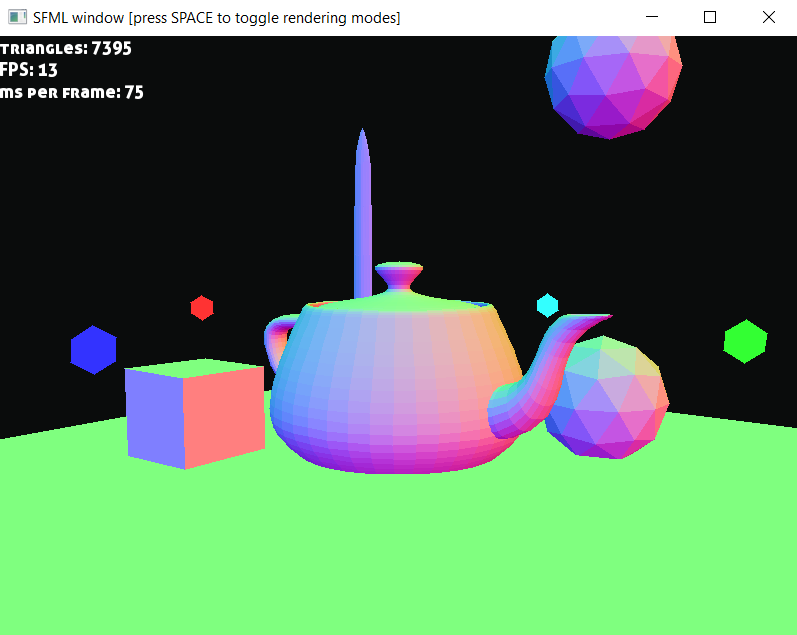
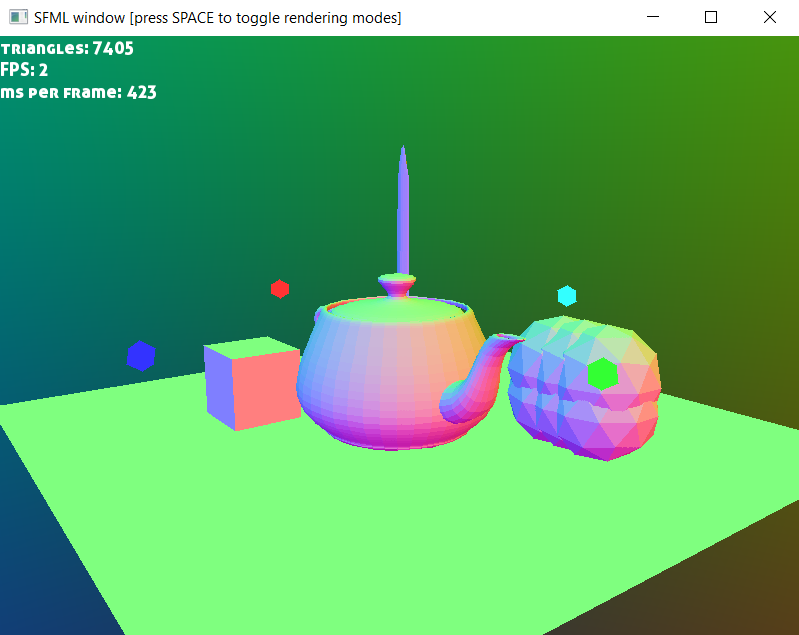
Skybox demo

diff --git a/3dRendererFromScratch/3dRendererFromScratch/Application.cpp b/3dRendererFromScratch/3dRendererFromScratch/Application.cpp
@@ -36,7 +36,7 @@ void Application::initShaders() {
     flatShader.setConst({glm::vec3(1.0f)});
 
     flatShader.setShader([](const eng::ShaderConstantsVec& consts, const eng::ShaderVariablesVec& var,
-                         const eng::LightsVec& lights) -> glm::vec4 { return glm::vec4(consts[0].get<glm::vec3>(), 1.0f); });
+                            const eng::LightsVec& lights) -> glm::vec4 { return glm::vec4(consts[0].get<glm::vec3>(), 1.0f); });
 
     textureShader.setConst({&texture});
 
@@ -61,7 +61,7 @@ void Application::initShaders() {
     phongShader.setConst({&texture, glm::vec3(), glm::vec3()});
 
     phongShader.setShader([](const eng::ShaderConstantsVec& consts, const eng::ShaderVariablesVec& var,
-                         const eng::LightsVec& lights) -> glm::vec4 {
+                             const eng::LightsVec& lights) -> glm::vec4 {
         auto FragPos = var[0].get<glm::vec3>();
         auto uv = var[1].get<glm::vec2>();
 
@@ -97,6 +97,14 @@ void Application::initShaders() {
 
         return glm::vec4(lighting, color.a);
     });
+
+    skyboxShader.setConst({&skybox});
+    skyboxShader.setShader(
+        [](const eng::ShaderConstantsVec& consts, const eng::ShaderVariablesVec& var, const eng::LightsVec& lights) -> glm::vec4 {
+            auto cubemap = consts[0].get<eng::CubemapTexture*>();
+            auto pos = var[0].get<glm::vec3>();
+            return cubemap->sample(pos);
+        });
 }
 
 void Application::addObjects() {
@@ -110,6 +118,9 @@ void Application::addObjects() {
         lights.push_back(eng::PointLight({0, 0.1, -2}, {0.2, 1.0, 1.0}, 1.2f, 0.5f));
     }
 
+    auto skyboxMesh = eng::MeshData::generateCubeData(1.0f, true);
+    objects.emplace_back(std::make_unique<eng::Skybox>(skyboxMesh, skyboxShader, eng::RenderMode::Texture));
+
     // plane
     float s = 2.6f;
     float h = -0.8;
@@ -117,57 +128,39 @@ void Application::addObjects() {
     objects.emplace_back(std::make_unique<eng::Mesh>(eng::MeshData{{{-s, h, s}, {-s, h, -s}, {s, h, s}, {s, h, -s}},
                                                                    {{0, 0}, {0, 1}, {1, 1}, {1, 0}},
                                                                    {{0, 1, 2, 0, 3, 1}, {3, 2, 1, 2, 1, 3}}},
-                                                     &texture, eng::ColorType(1.0f), phongShader, flatShader, textureShader, uvShader,
-                                                     normalShader));
+                                                     &texture, eng::ColorType(1.0f), phongShader, flatShader, textureShader,
+                                                     uvShader, normalShader));
 
     // cube
     float sz = 0.3f;
-    objects.emplace_back(std::make_unique<eng::Mesh>(eng::MeshData{{{-sz, -sz, -sz},
-                                                                    {-sz, -sz, sz},
-                                                                    {-sz, sz, -sz},
-                                                                    {-sz, sz, sz},
-                                                                    {sz, -sz, -sz},
-                                                                    {sz, -sz, sz},
-                                                                    {sz, sz, -sz},
-                                                                    {sz, sz, sz}},
-                                                                   {{0, 0}, {0, 1}, {1, 1}, {1, 0}},
-                                                                   {{1, 3, 7, 0, 1, 2},
-                                                                    {1, 7, 5, 0, 2, 3},
-                                                                    {5, 7, 6, 0, 1, 2},
-                                                                    {5, 6, 4, 0, 2, 3},
-                                                                    {4, 6, 2, 0, 1, 2},
-                                                                    {4, 2, 0, 0, 2, 3},
-                                                                    {0, 2, 3, 0, 1, 2},
-                                                                    {0, 3, 1, 0, 2, 3},
-                                                                    {3, 2, 6, 0, 1, 2},
-                                                                    {3, 6, 7, 0, 2, 3},
-                                                                    {0, 1, 5, 0, 1, 2},
-                                                                    {0, 5, 4, 0, 2, 3}}},
-                                                     &texture, eng::ColorType(1.0f), phongShader, flatShader, textureShader, uvShader,
-                                                     normalShader));
+    auto cubeMesh = eng::MeshData::generateCubeData(sz);
+    objects.emplace_back(std::make_unique<eng::Mesh>(cubeMesh, &texture, eng::ColorType(1.0f), phongShader, flatShader,
+                                                     textureShader, uvShader, normalShader));
     objects.back()->getTransform().position = glm::vec3(-1.0f, h + sz, 0.8f);
 
     // teapot
     objects.emplace_back(std::make_unique<eng::Mesh>(eng::loadFromObj("data/teapot.obj", 0.4f, true, false), &texture3,
-                                                     eng::ColorType(1.0f), phongShader, flatShader, textureShader, uvShader, normalShader));
+                                                     eng::ColorType(1.0f), phongShader, flatShader, textureShader, uvShader,
+                                                     normalShader));
     objects.back()->getTransform().position.y = h;
 
     // sphere
     for (int y = 0; y < 2; ++y)
         for (int x = 0; x < 3; ++x) {
             objects.emplace_back(std::make_unique<eng::Mesh>(eng::loadFromObj("data/lowPolySphere.obj", 0.4f, true), &texture2,
-                                                             eng::ColorType(1.0f), phongShader, flatShader, textureShader, uvShader,
-                                                             normalShader));
+                                                             eng::ColorType(1.0f), phongShader, flatShader, textureShader,
+                                                             uvShader, normalShader));
             objects.back()->getTransform().position = glm::vec3(1.0f + 0.2f * x, h + 0.4f + 0.2f * y, -0.8f);
         }
 
     // sword
     objects.emplace_back(std::make_unique<eng::Mesh>(eng::loadFromObj("data/sword.obj", 2.0f, true), &swordTexture,
-                                                     eng::ColorType(1.0f), phongShader, flatShader, textureShader, uvShader, normalShader));
+                                                     eng::ColorType(1.0f), phongShader, flatShader, textureShader, uvShader,
+                                                     normalShader));
     objects.back()->getTransform().position = glm::vec3(-1.0f, h, -0.8f);
 
-    eng::Mesh light(eng::loadFromObj("data/light.obj", 0.1f, true, false), &texture, eng::ColorType(1.0f), phongShader, flatShader,
-                    textureShader, uvShader, normalShader, eng::RenderMode::FlatColor);
+    eng::Mesh light(eng::loadFromObj("data/light.obj", 0.1f, true, false), &texture, eng::ColorType(1.0f), phongShader,
+                    flatShader, textureShader, uvShader, normalShader, eng::RenderMode::FlatColor);
 
     for (int y = 0; y < lights.size(); ++y) {
         glm::vec3 pos = lights[y].pos;

diff --git a/3dRendererFromScratch/3dRendererFromScratch/Engine/Object.cpp b/3dRendererFromScratch/3dRendererFromScratch/Engine/Object.cpp
@@ -4,6 +4,9 @@ namespace eng {
 
 Transform& Object::getTransform() { return t; }
 
+glm::vec3 Object::getPosition() const { return t.position; }
+void Object::setPosition(glm::vec3 pos) { t.position = pos; }
+
 MeshData loadFromObj(const std::string& filename, float scale, bool invertNormals, bool uvCoords) {
     std::ifstream file(filename);
     assert(file);
@@ -51,6 +54,35 @@ MeshData loadFromObj(const std::string& filename, float scale, bool invertNormal
     }
 
     return mesh;
+}
+
+MeshData MeshData::generateCubeData(float sz, bool invertNormals) {
+    auto res = MeshData{{{-sz, -sz, -sz},
+                         {-sz, -sz, sz},
+                         {-sz, sz, -sz},
+                         {-sz, sz, sz},
+                         {sz, -sz, -sz},
+                         {sz, -sz, sz},
+                         {sz, sz, -sz},
+                         {sz, sz, sz}},
+                        {{0, 0}, {0, 1}, {1, 1}, {1, 0}},
+                        {{1, 3, 7, 0, 1, 2},
+                         {1, 7, 5, 0, 2, 3},
+                         {5, 7, 6, 0, 1, 2},
+                         {5, 6, 4, 0, 2, 3},
+                         {4, 6, 2, 0, 1, 2},
+                         {4, 2, 0, 0, 2, 3},
+                         {0, 2, 3, 0, 1, 2},
+                         {0, 3, 1, 0, 2, 3},
+                         {3, 2, 6, 0, 1, 2},
+                         {3, 6, 7, 0, 2, 3},
+                         {0, 1, 5, 0, 1, 2},
+                         {0, 5, 4, 0, 2, 3}}};
+
+    if (invertNormals)
+        for (auto& face : res.faces) std::swap(face.i, face.j);
+
+    return res;
 }
 
 Mesh::Mesh(const MeshData& mesh, Texture* texture, ColorType color, Shader& ph, Shader& fl, Shader& td, Shader& uv, Shader& nrm,
@@ -130,7 +162,59 @@ size_t Mesh::getTriangleCount() { return mesh.faces.size(); }
 ColorType Mesh::getColor() const { return color; }
 void Mesh::setColor(ColorType clr) { color = clr; }
 
-glm::vec3 Mesh::getPosition() const { return t.position; }
-void Mesh::setPosition(glm::vec3 pos) { t.position = pos; }
+Skybox::Skybox(const MeshData& mesh, Shader& shader, std::optional<RenderMode> rm) : mesh(mesh), shader(shader), rm(rm) {}
+
+void Skybox::draw(RenderMode r, const Camera& camera, Screen& screen, const LightsVec& lights) {
+    // remove translation
+    glm::mat4 model = glm::mat4(glm::mat3(t.getModel()));
+
+    glm::mat4 transform = glm::mat4(glm::mat3(camera.getViewMatrix()));
+    glm::mat4 projection = screen.getProjectionMatrix();
+    float near = screen.near;
+
+    if (rm.has_value()) r = *rm;
+
+    for (auto& face : mesh.faces) {
+        glm::vec4 v0 = glm::vec4(mesh.vertices[face.i], 1.0f);
+        glm::vec4 v1 = glm::vec4(mesh.vertices[face.j], 1.0f);
+        glm::vec4 v2 = glm::vec4(mesh.vertices[face.k], 1.0f);
+
+        glm::vec4 p0_ = model * v0;
+        glm::vec4 p1_ = model * v1;
+        glm::vec4 p2_ = model * v2;
+        p0_ /= p0_.w;
+        p1_ /= p1_.w;
+        p2_ /= p2_.w;
+        glm::vec3 p0 = glm::vec3(p0_);
+        glm::vec3 p1 = glm::vec3(p1_);
+        glm::vec3 p2 = glm::vec3(p2_);
+
+        Triangle tr;
+        p0_ = transform * model * v0;
+        p1_ = transform * model * v1;
+        p2_ = transform * model * v2;
+        tr.p0 = glm::vec4(p0_.x / p0_.w, p0_.y / p0_.w, p0_.z / p0_.w, p0_.w);
+        tr.p1 = glm::vec4(p1_.x / p1_.w, p1_.y / p1_.w, p1_.z / p1_.w, p1_.w);
+        tr.p2 = glm::vec4(p2_.x / p2_.w, p2_.y / p2_.w, p2_.z / p2_.w, p2_.w);
+
+        if (r != RenderMode::Wireframe) {
+            tr.v0 = ShaderVariablesVec({p0});
+            tr.v1 = ShaderVariablesVec({p1});
+            tr.v2 = ShaderVariablesVec({p2});
+
+            screen.setDepth = false;
+
+            drawTriangle(tr, projection, near, shader, screen, lights);
+
+            screen.setDepth = true;
+        } else {
+            drawWireframeTriangle(tr, projection, near, glm::vec3(1.0f), screen);
+        }
+    }
+}
+
+void Skybox::update(float dt) {}
+
+size_t Skybox::getTriangleCount() { return mesh.faces.size(); }
 
 }  // namespace eng

diff --git a/3dRendererFromScratch/3dRendererFromScratch/Engine/Object.h b/3dRendererFromScratch/3dRendererFromScratch/Engine/Object.h
@@ -30,6 +30,9 @@ class Object {
 
     Transform& getTransform();
 
+    void setPosition(glm::vec3 pos);
+    glm::vec3 getPosition() const;
+
  protected:
     Transform t;
 };
@@ -48,6 +51,8 @@ struct MeshData {
     std::vector<glm::vec3> vertices;
     std::vector<glm::vec2> textureCoords;
     std::vector<Face> faces;
+
+    static MeshData generateCubeData(float sz = 1.0f, bool invertNormals = false);
 };
 
 MeshData loadFromObj(const std::string& filename, float scale = 1.0f, bool invertNormals = false, bool uvCoords = true);
@@ -64,9 +69,6 @@ class Mesh : public Object {
     void setColor(ColorType clr);
     ColorType getColor() const;
 
-    void setPosition(glm::vec3 pos);
-    glm::vec3 getPosition() const;
-
  private:
     MeshData mesh;
     ColorType color;
@@ -78,6 +80,21 @@ class Mesh : public Object {
     Shader& td;
     Shader& uv;
     Shader& nrm;
+};
+
+class Skybox : public Object {
+ public:
+    Skybox(const MeshData& mesh, Shader& shader, std::optional<RenderMode> rm = std::nullopt);
+
+    void draw(RenderMode r, const Camera& camera, Screen& screen, const LightsVec& lights) override;
+    void update(float dt) override;
+    size_t getTriangleCount() override;
+
+ private:
+    MeshData mesh;
+    Shader& shader;
+
+    std::optional<RenderMode> rm;
 };
 
 }  // namespace eng

diff --git a/3dRendererFromScratch/3dRendererFromScratch/Engine/Primitives.cpp b/3dRendererFromScratch/3dRendererFromScratch/Engine/Primitives.cpp
@@ -329,7 +329,7 @@ void drawWireframeTriangle(const Triangle& t, const glm::mat4& projection, float
 void drawTriangle(const Triangle& t, const glm::mat4& projection, float near, Shader& shader, Screen& screen,
                   const LightsVec& lights) {
     for (const auto& triangle : clipTriangleAgainstFrustrum(t, projection, near)) {
-        // drawTriangleOvercomplicatedVersion(t, transform, shader, screen, lights);
+        // drawTriangleOvercomplicatedVersion(triangle, shader, screen, lights);
         drawTriangleNormalVersion(triangle, shader, screen, lights);
     }
 }
@@ -516,7 +516,6 @@ void drawTriangleOvercomplicatedVersion(const Triangle& t, Shader& shader, Scree
 
                 Var it = iv.t * w;
                 auto lighting = shaderFunc(shader.getConst(), it, lights);
-                if (lighting.a == 0.0f) continue;
 
                 screen.setPixelColor(size_t(x), size_t(y), glm::vec3(lighting.r, lighting.g, lighting.b), z);
             }

diff --git a/3dRendererFromScratch/3dRendererFromScratch/Engine/Screen.cpp b/3dRendererFromScratch/3dRendererFromScratch/Engine/Screen.cpp
@@ -42,14 +42,11 @@ void Screen::checkAndSetPixelColor(size_t x, size_t y, ColorType color) {
 void Screen::depthCheckSetPixelColor(size_t x, size_t y, float z, ColorType color) {
     assert(x < width && y < height);
 
-    // std::cout << z << '\n';
     if (z < -1 || z > 1) return;
 
-    // minz = std::min(z, minz);
-    // maxz = std::max(z, maxz);
-
     if (z < getPixelDepth(x, y)) {
-        setPixelDepth(x, y, z);
+        if (setDepth) setPixelDepth(x, y, z);
+
         setPixelColor(x, y, color);
     }
 }

diff --git a/3dRendererFromScratch/3dRendererFromScratch/Application.h b/3dRendererFromScratch/3dRendererFromScratch/Application.h
@@ -35,11 +35,14 @@ class Application {
     eng::Shader uvShader;
     eng::Shader normalShader;
     eng::Shader phongShader;
+    eng::Shader skyboxShader;
 
     eng::Texture texture = eng::Texture("data/texture.png");
     eng::Texture texture2 = eng::Texture("data/texture2.png");
     eng::Texture texture3 = eng::Texture("data/texture3.png");
     eng::Texture swordTexture = eng::Texture("data/sword.png");
+
+    eng::CubemapTexture skybox = eng::CubemapTexture();
 
     sf::Font font;
     sf::Text text;

diff --git a/3dRendererFromScratch/3dRendererFromScratch/Engine/Shader.h b/3dRendererFromScratch/3dRendererFromScratch/Engine/Shader.h
@@ -58,7 +58,7 @@ class ShaderVariablesVec {
 
 class ShaderConstant {
  public:
-    using var_t = std::variant<Texture*, glm::vec4, glm::vec3, glm::vec2, float, int>;
+    using var_t = std::variant<CubemapTexture*, Texture*, glm::vec4, glm::vec3, glm::vec2, float, int>;
 
     template <typename T>
     ShaderConstant(const T& v) : variable(v) {}

diff --git a/3dRendererFromScratch/3dRendererFromScratch/Engine/Texture.cpp b/3dRendererFromScratch/3dRendererFromScratch/Engine/Texture.cpp
@@ -39,4 +39,11 @@ glm::vec4 Texture::sample(float x, float y, int n, int m) const {
     return glm::vec4(buffer[xc][h - 1 - yc], 1.0f);
 }
 
+CubemapTexture::CubemapTexture() {}
+
+glm::vec4 CubemapTexture::sample(glm::vec3 v) {
+    v = glm::normalize(v);
+    return glm::vec4(0.5f * (v + 1.0f), 1.0f);
+}
+
 }  // namespace eng

diff --git a/3dRendererFromScratch/3dRendererFromScratch/Engine/Screen.h b/3dRendererFromScratch/3dRendererFromScratch/Engine/Screen.h
@@ -44,6 +44,7 @@ class Screen {
 
  public:
     float near, far;
+    bool setDepth = true;
 
  private:
     size_t width, height;
@@ -53,9 +54,6 @@ class Screen {
     DepthBuffer depthBuffer;
 
     glm::mat4 projectionMatrix;
-
-    // float minz = 1.2f;
-    // float maxz = -1.2f;
 };
 
 }  // namespace eng

diff --git a/3dRendererFromScratch/3dRendererFromScratch/Engine/Texture.h b/3dRendererFromScratch/3dRendererFromScratch/Engine/Texture.h
@@ -21,4 +21,10 @@ struct Texture {
     ColorBuffer buffer;
 };
 
+struct CubemapTexture {
+    CubemapTexture();
+
+    glm::vec4 sample(glm::vec3 v);
+};
+
 }  // namespace eng

diff --git a/README.md b/README.md
@@ -19,7 +19,7 @@ Next up is:
 
 Potential new features:
 - [ ] Vertex and/or Geometry shaders
-- [ ] Cubemap textures
+- [x] Cubemap textures (work in progress)
 - [ ] Different texture sampling modes
 - [ ] Alpha blending
 - [ ] Shadow mapping
